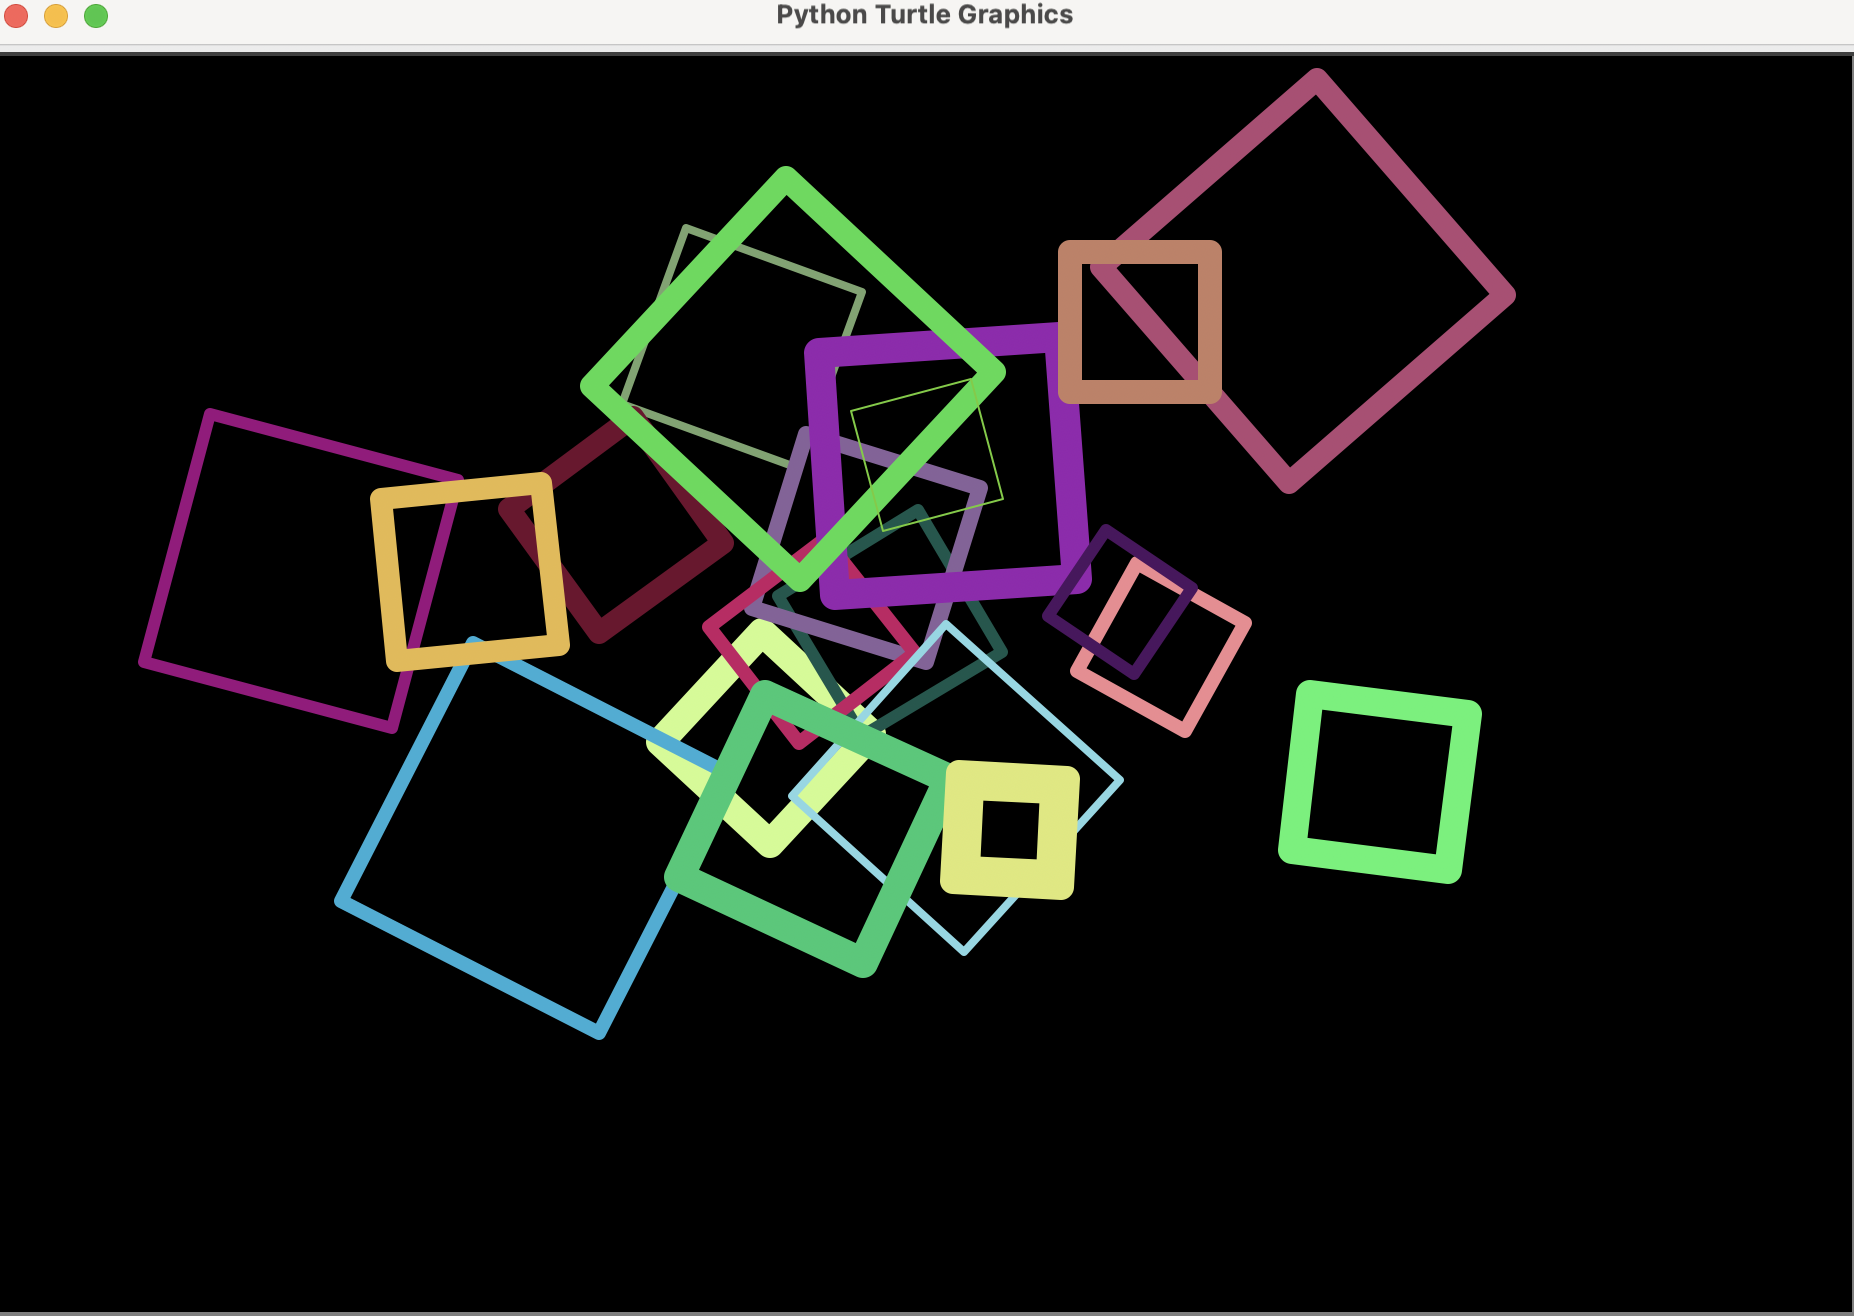
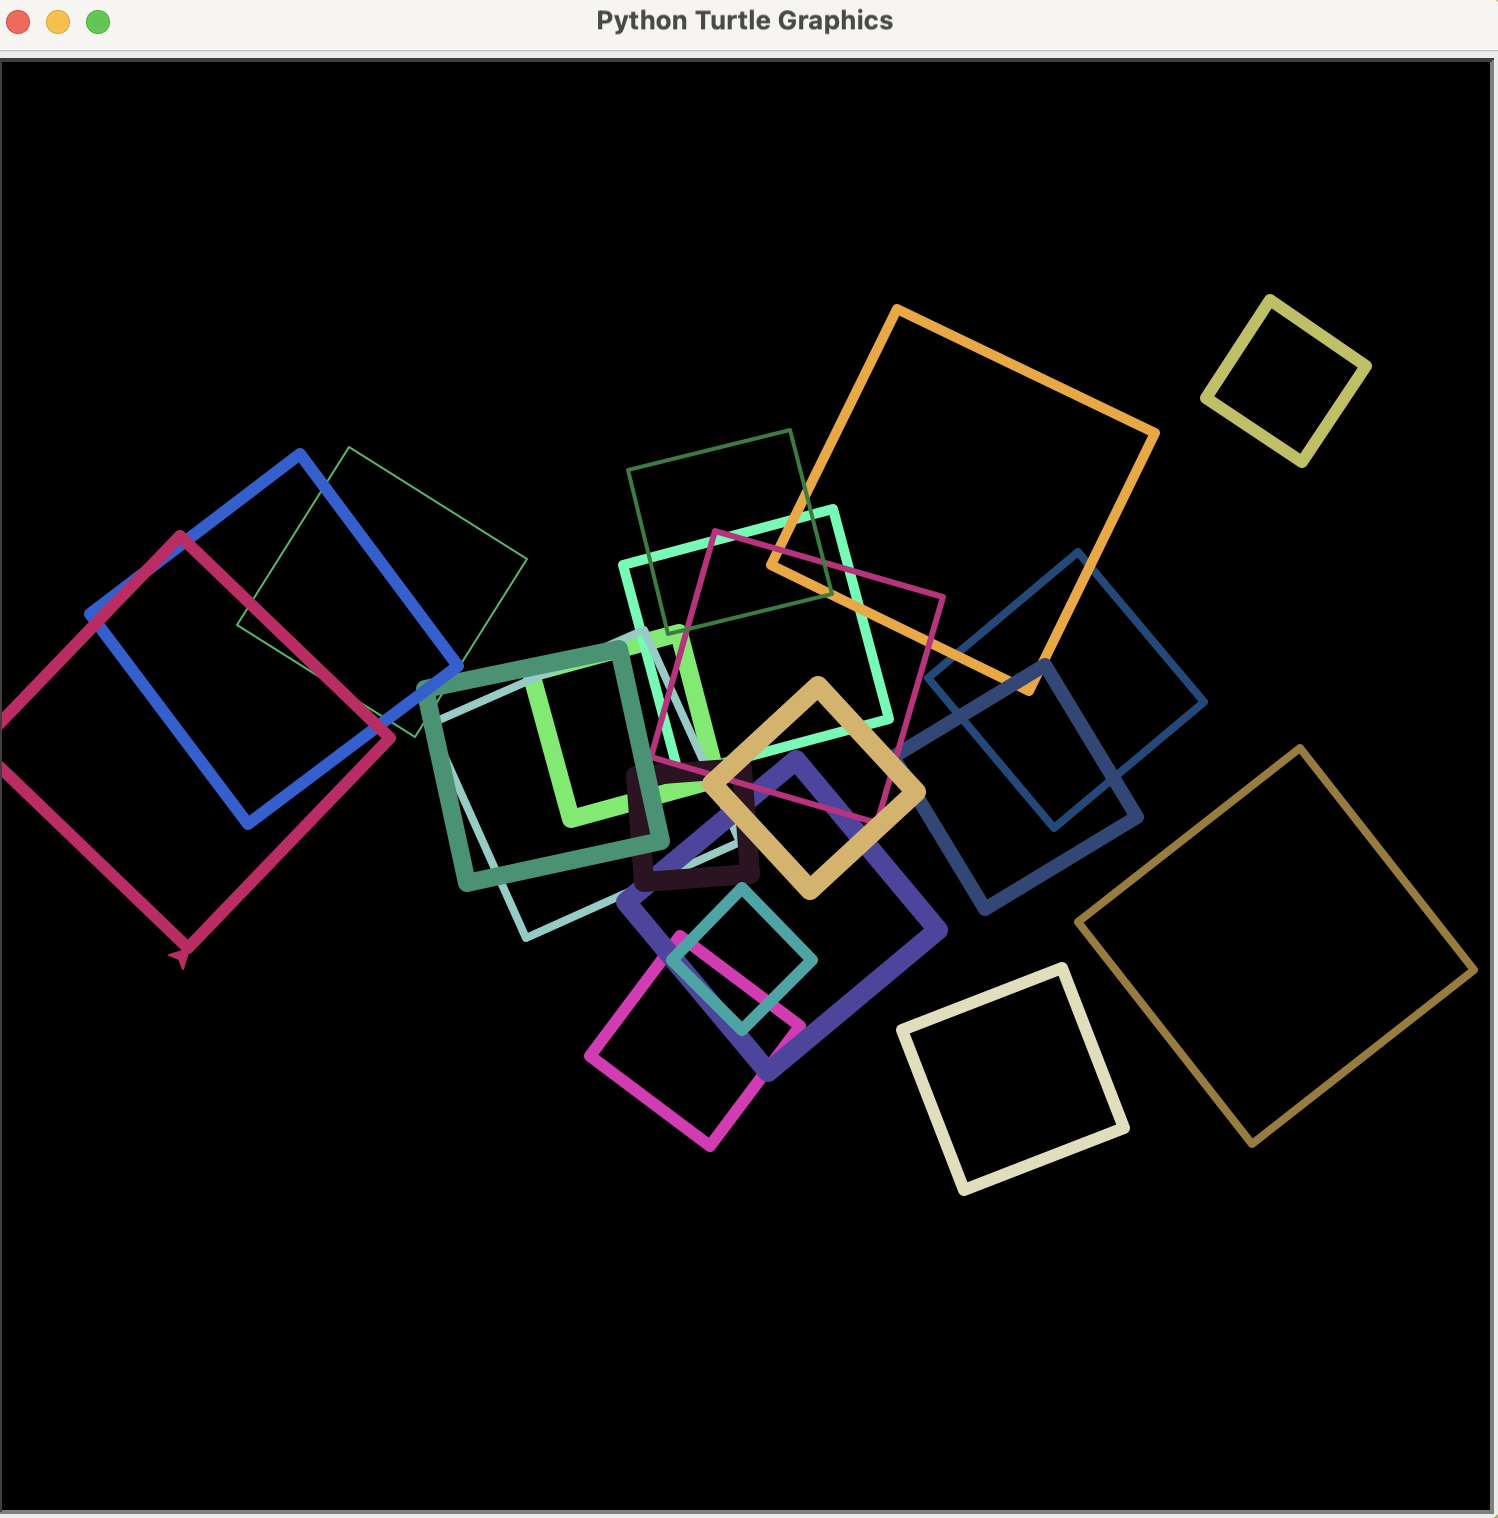
Finished(Edited)

diff --git a/polygon_art.py b/polygon_art.py
@@ -1,138 +1,171 @@
 import turtle
 import random
 
-def draw_polygon(num_sides, size, orientation, location, color, border_size):
-    turtle.penup()
-    turtle.goto(location[0], location[1])
-    turtle.setheading(orientation)
-    turtle.color(color)
-    turtle.pensize(border_size)
-    turtle.pendown()
-    for _ in range(num_sides):
-        turtle.forward(size)
-        turtle.left(360/num_sides)
-    turtle.penup()
+class Polygon:
+    def __init__(self, num_sides, size, orientation, location, color, border_size):
+        self.num_sides = num_sides
+        self.size = size
+        self.orientation = orientation
+        self.location = location
+        self.color = color
+        self.border_size = border_size
 
-def get_new_color():
-    return (random.randint(0, 255), random.randint(0, 255), random.randint(0, 255))
+    def draw(self):
+        turtle.penup()
+        turtle.goto(self.location[0], self.location[1])
+        turtle.setheading(self.orientation)
+        turtle.color(self.color)
+        turtle.pensize(self.border_size)
+        turtle.pendown()
 
-turtle.speed(0)
-turtle.bgcolor('black')
-turtle.tracer(0)
-turtle.colormode(255)
+        for _ in range(self.num_sides):
+            turtle.forward(self.size)
+            turtle.left(360 / self.num_sides)
 
-# draw a polygon at a random location, orientation, color, and border line thickness
-shape = input('Which art do you want to generate? Enter a number between 1 to 9 inclusive: ')
-for i in range(20):
-    if shape == '1':
-        num_sides = 3
-        size = random.randint(50, 150)
-        orientation = random.randint(0, 90)
-        location = [random.randint(-300, 300), random.randint(-200, 200)]
-        color = get_new_color()
-        border_size = random.randint(1, 15)
-        draw_polygon(num_sides, size, orientation, location, color, border_size)
-    elif shape == '2':
-        num_sides = 4
-        size = random.randint(50, 150)
-        orientation = random.randint(0, 90)
-        location = [random.randint(-300, 300), random.randint(-200, 200)]
-        color = get_new_color()
-        border_size = random.randint(1, 15)
-        draw_polygon(num_sides, size, orientation, location, color, border_size)
-    elif shape == '3':
-        num_sides = 5
-        size = random.randint(50, 150)
-        orientation = random.randint(0, 90)
-        location = [random.randint(-300, 300), random.randint(-200, 200)]
-        color = get_new_color()
-        border_size = random.randint(1, 15)
-        draw_polygon(num_sides, size, orientation, location, color, border_size)
-    elif shape == '4':
-        num_sides = random.randint(3, 5)
-        size = random.randint(50, 150)
-        orientation = random.randint(0, 90)
-        location = [random.randint(-300, 300), random.randint(-200, 200)]
-        color = get_new_color()
-        border_size = random.randint(1, 15)
-        draw_polygon(num_sides, size, orientation, location, color, border_size)
-    elif shape == '5':
-        num_sides = 3
-        size = random.randint(50, 150)
-        orientation = random.randint(0, 90)
-        location = [random.randint(-300, 300), random.randint(-200, 200)]
-        color = get_new_color()
-        border_size = random.randint(1, 10)
-        draw_polygon(num_sides, size, orientation, location, color, border_size)
-        reduction_ratio = 0.75
-        for _ in range(2):
-            size *= reduction_ratio
-            draw_polygon(num_sides, size, orientation, location, color, border_size)
-    elif shape == '6':
-        num_sides = 4
-        size = random.randint(50, 150)
-        orientation = random.randint(0, 90)
-        location = [random.randint(-300, 300), random.randint(-200, 200)]
-        color = get_new_color()
-        border_size = random.randint(1, 10)
-        draw_polygon(num_sides, size, orientation, location, color, border_size)
-        reduction_ratio = 0.75
-        for _ in range(2):
-            size *= reduction_ratio
-            draw_polygon(num_sides, size, orientation, location, color, border_size)
-    elif shape == '7':
-        num_sides = 5
-        size = random.randint(50, 150)
-        orientation = random.randint(0, 90)
-        location = [random.randint(-300, 300), random.randint(-200, 200)]
-        color = get_new_color()
-        border_size = random.randint(1, 10)
-        draw_polygon(num_sides, size, orientation, location, color, border_size)
-        reduction_ratio = 0.75
-        for _ in range(2):
-            size *= reduction_ratio
-            draw_polygon(num_sides, size, orientation, location, color, border_size)
-    elif shape == '8':
-        num_sides = random.randint(3, 5)
-        size = random.randint(50, 150)
-        orientation = random.randint(0, 90)
-        location = [random.randint(-300, 300), random.randint(-200, 200)]
-        color = get_new_color()
-        border_size = random.randint(1, 10)
-        draw_polygon(num_sides, size, orientation, location, color, border_size)
-        reduction_ratio = 0.75
-        for _ in range(2):
-            size *= reduction_ratio
-            draw_polygon(num_sides, size, orientation, location, color, border_size)
-    elif shape == '9':
-        num_sides = random.randint(3, 5)
-        size = random.randint(50, 150)
-        orientation = random.randint(0, 90)
-        location = [random.randint(-300, 300), random.randint(-200, 200)]
-        color = get_new_color()
-        border_size = random.randint(1, 10)
-        draw_polygon(num_sides, size, orientation, location, color, border_size)
-        reduction_ratio = 0.75
-        for _ in range(random.randint(0,2)):
-            size *= reduction_ratio
-            draw_polygon(num_sides, size, orientation, location, color, border_size)
+        turtle.penup()
 
 
-# specify a reduction ratio to draw a smaller polygon inside the one above
-reduction_ratio = 0.75
+class ArtController:
 
-# reposition the turtle and get a new location
-turtle.penup()
-turtle.forward(size*(1-reduction_ratio)/2)
-turtle.left(90)
-turtle.forward(size*(1-reduction_ratio)/2)
-turtle.right(90)
-location[0] = turtle.pos()[0]
-location[1] = turtle.pos()[1]
+    def __init__(self):
+        turtle.bgcolor("black")
+        turtle.speed(0)
+        turtle.colormode(255)
+        turtle.tracer(0)
 
-# adjust the size according to the reduction ratio
+    def get_new_color(self):
+        return (random.randint(0, 255), random.randint(0, 255), random.randint(0, 255))
 
-# draw the second polygon embedded inside the original 
+    def random_location(self):
+        return [random.randint(-300,300),
+                random.randint(-250,250)]
 
-# hold the window; close it by clicking the window close 'x' mark
-turtle.done()
+    def draw_single_polygon(self, sides):
+        size = random.randint(50, 150)
+        angle = random.randint(0, 90)
+        color = self.get_new_color()
+        border = random.randint(1, 10)
+        location = [random.randint(-300, 300), random.randint(-200, 200)]
+
+        Polygon(sides, size, angle, location, color, border).draw()
+
+    def art1(self):  
+        for _ in range(20):
+            self.draw_single_polygon(3)
+
+    def art2(self):  
+        for _ in range(20):
+            self.draw_single_polygon(4)
+
+    def art3(self):  
+        for _ in range(20):
+            self.draw_single_polygon(5)
+
+    def art4(self):  
+        for _ in range(20):
+            self.draw_single_polygon(random.choice([3,4,5]))
+
+    def art5(self):
+        for _ in range(20):
+            base_size = random.randint(50, 140)
+            loc = self.random_location()
+            angle = random.randint(0, 360)
+            col = self.get_new_color()
+
+            layers = random.randint(3, 5)
+
+            size = base_size
+            for i in range(layers):
+                border = 3 if i == 0 else 1    
+                Polygon(3, size, angle, loc, col, border).draw()
+                size *= 0.70                    
+                angle += random.randint(-10, 10)
+
+    def art6(self):
+        for _ in range(20):
+            base_size = random.randint(60, 150)
+            loc = self.random_location()
+            angle = random.randint(0, 360)
+            col = self.get_new_color()
+
+            layers = random.randint(4, 6)  
+
+            size = base_size
+            for i in range(layers):
+                border = 3 if i == 0 else 1 
+                Polygon(4, size, angle, loc, col, border).draw()
+
+                size *= 0.70               
+                angle += random.randint(-12, 12)  
+
+    def art7(self):
+        for _ in range(20):
+            base_size = random.randint(60, 150)
+            loc = self.random_location()
+            angle = random.randint(0, 360)
+            col = self.get_new_color()
+
+            layers = random.randint(4, 6)
+
+            size = base_size
+            for i in range(layers):
+                border = 3 if i == 0 else 1
+                Polygon(5, size, angle, loc, col, border).draw()
+
+                size *= 0.70
+                angle += random.randint(-12, 12)
+
+    def art8(self):
+        for _ in range(20):
+            sides = random.choice([3, 4, 5])
+            base_size = random.randint(60, 150)
+            loc = self.random_location()
+            angle = random.randint(0, 360)
+            col = self.get_new_color()
+
+            layers = random.randint(4, 6)
+
+            size = base_size
+            for i in range(layers):
+                border = 3 if i == 0 else 1
+                Polygon(sides, size, angle, loc, col, border).draw()
+                size *= 0.70
+                angle += random.randint(-12, 12)
+
+    def art9(self):
+        for _ in range(20):
+            sides = random.choice([3, 4, 5])
+            size = random.randint(40, 140)
+            loc = self.random_location()
+            angle = random.randint(0, 360)
+            col = self.get_new_color()
+            border = random.randint(1, 5)
+            for _ in range(random.randint(0,5)):
+                Polygon(sides, size, angle, loc, col, border).draw()
+                size *= 0.7
+                angle += random.randint(-12, 12)
+
+
+
+def main():
+    choice = int(input("Which art do you want to generate? Enter a number between 1 to 9 inclusive: "))
+    art = ArtController()
+
+    if   choice == 1: art.art1()
+    elif choice == 2: art.art2()
+    elif choice == 3: art.art3()
+    elif choice == 4: art.art4()
+    elif choice == 5: art.art5()
+    elif choice == 6: art.art6()
+    elif choice == 7: art.art7()
+    elif choice == 8: art.art8()
+    elif choice == 9: art.art9()
+    else:
+        print("Invalid selection.")
+        return
+
+    turtle.update()
+    turtle.done()
+
+if __name__ == "__main__":
+    main()
